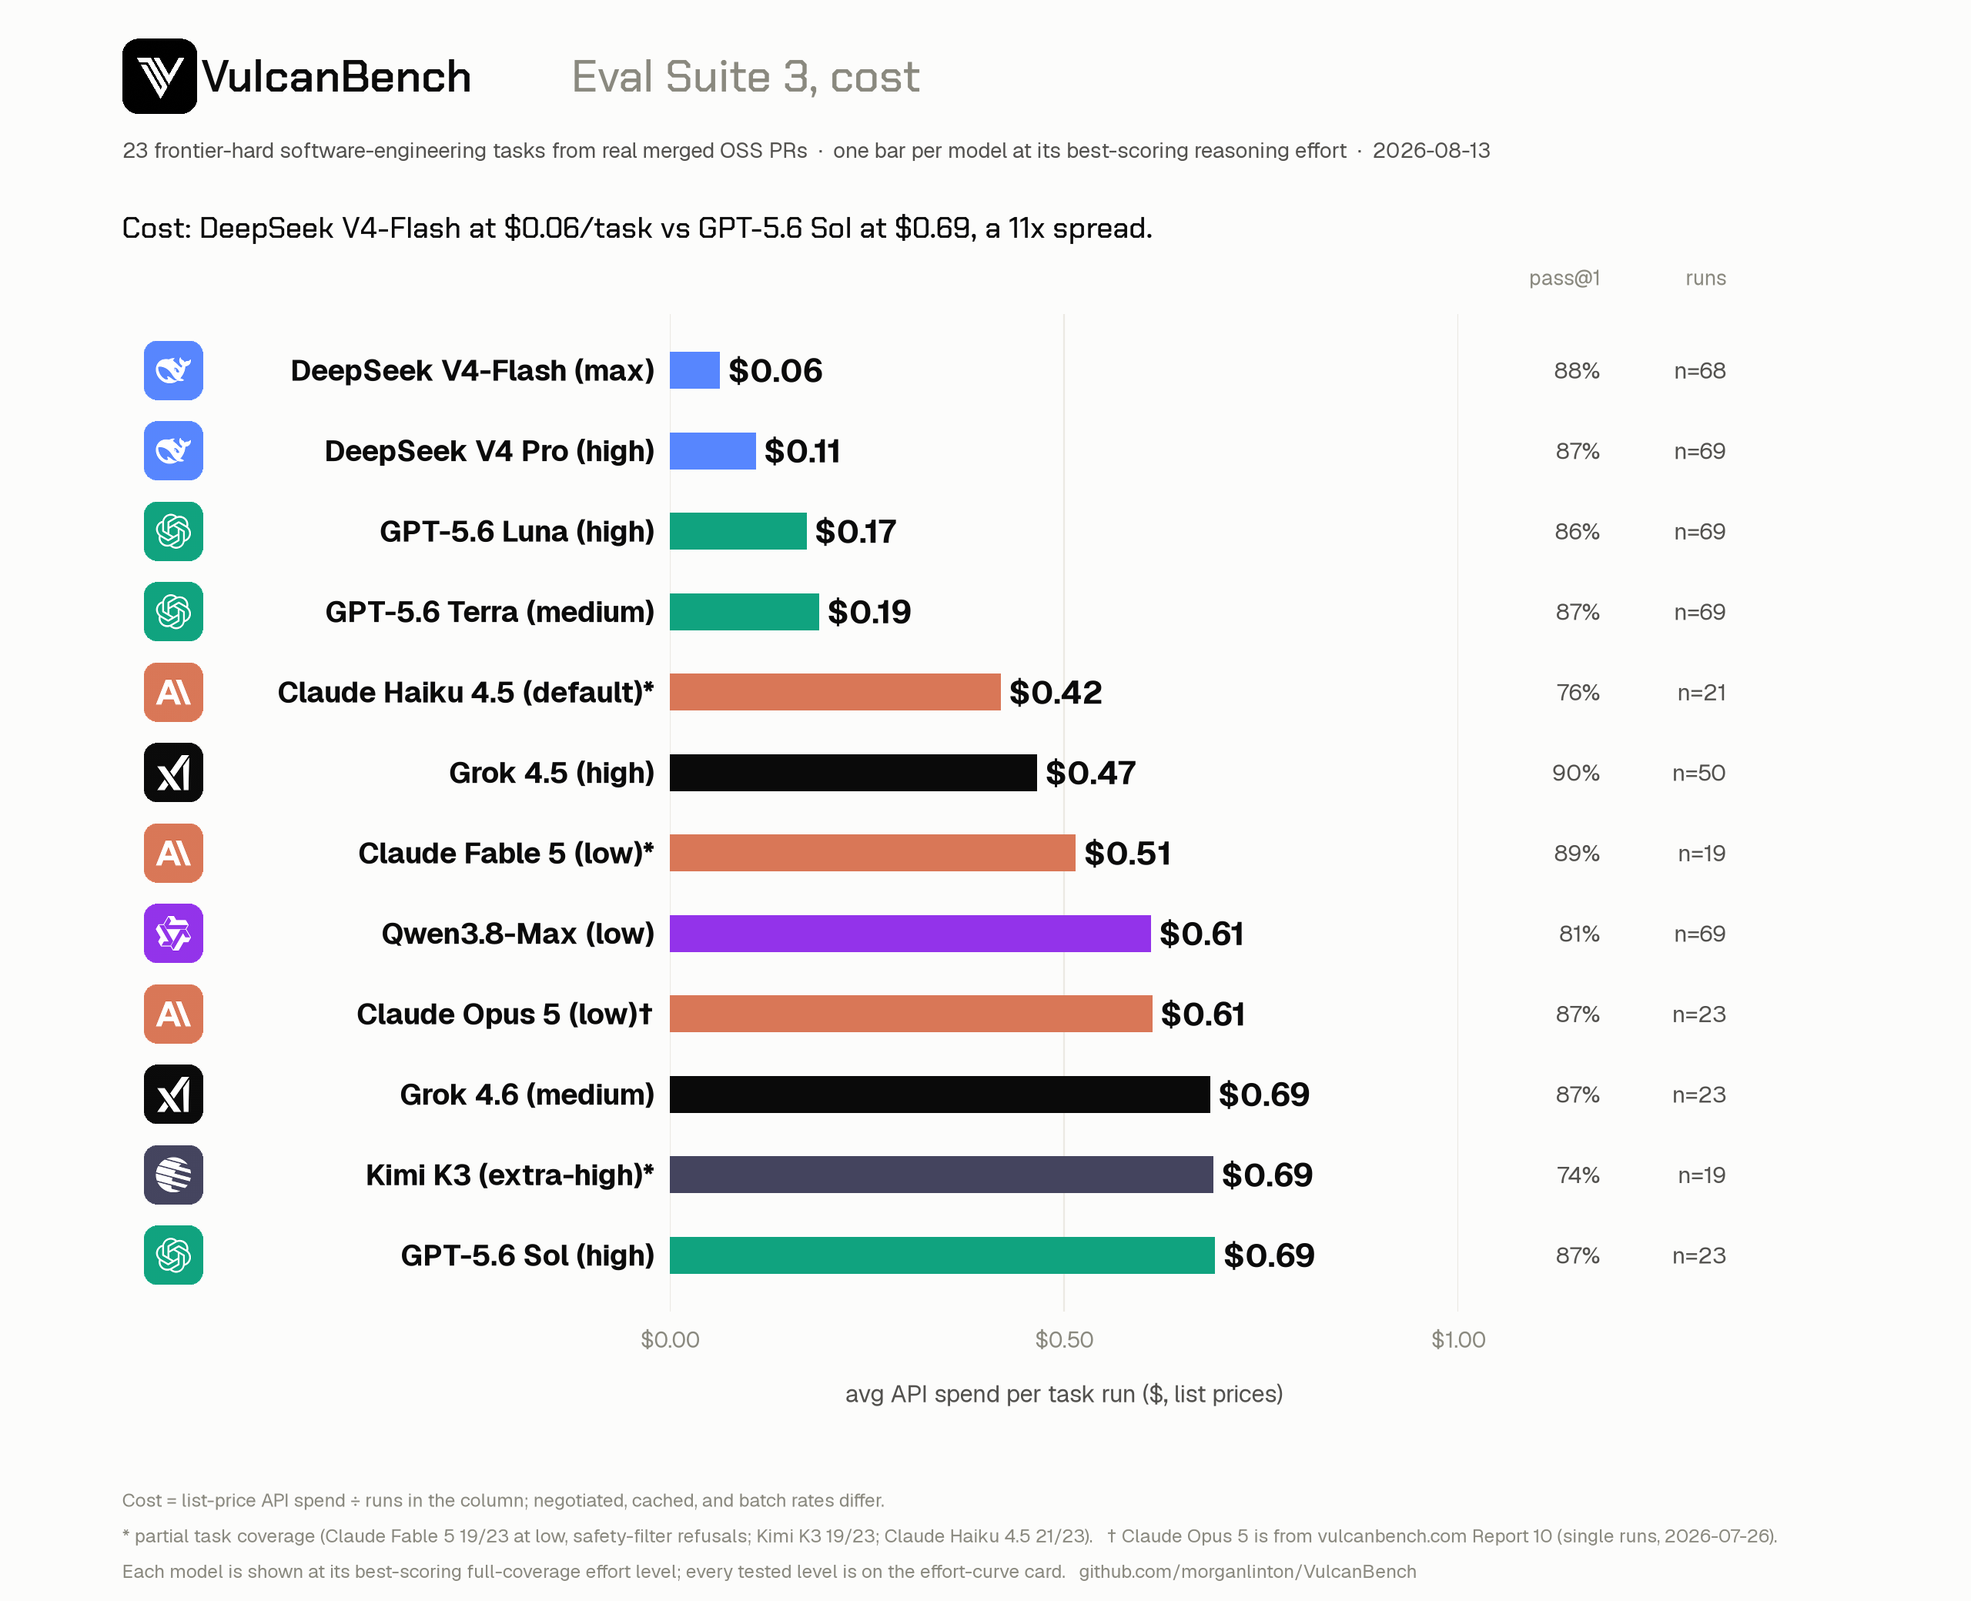
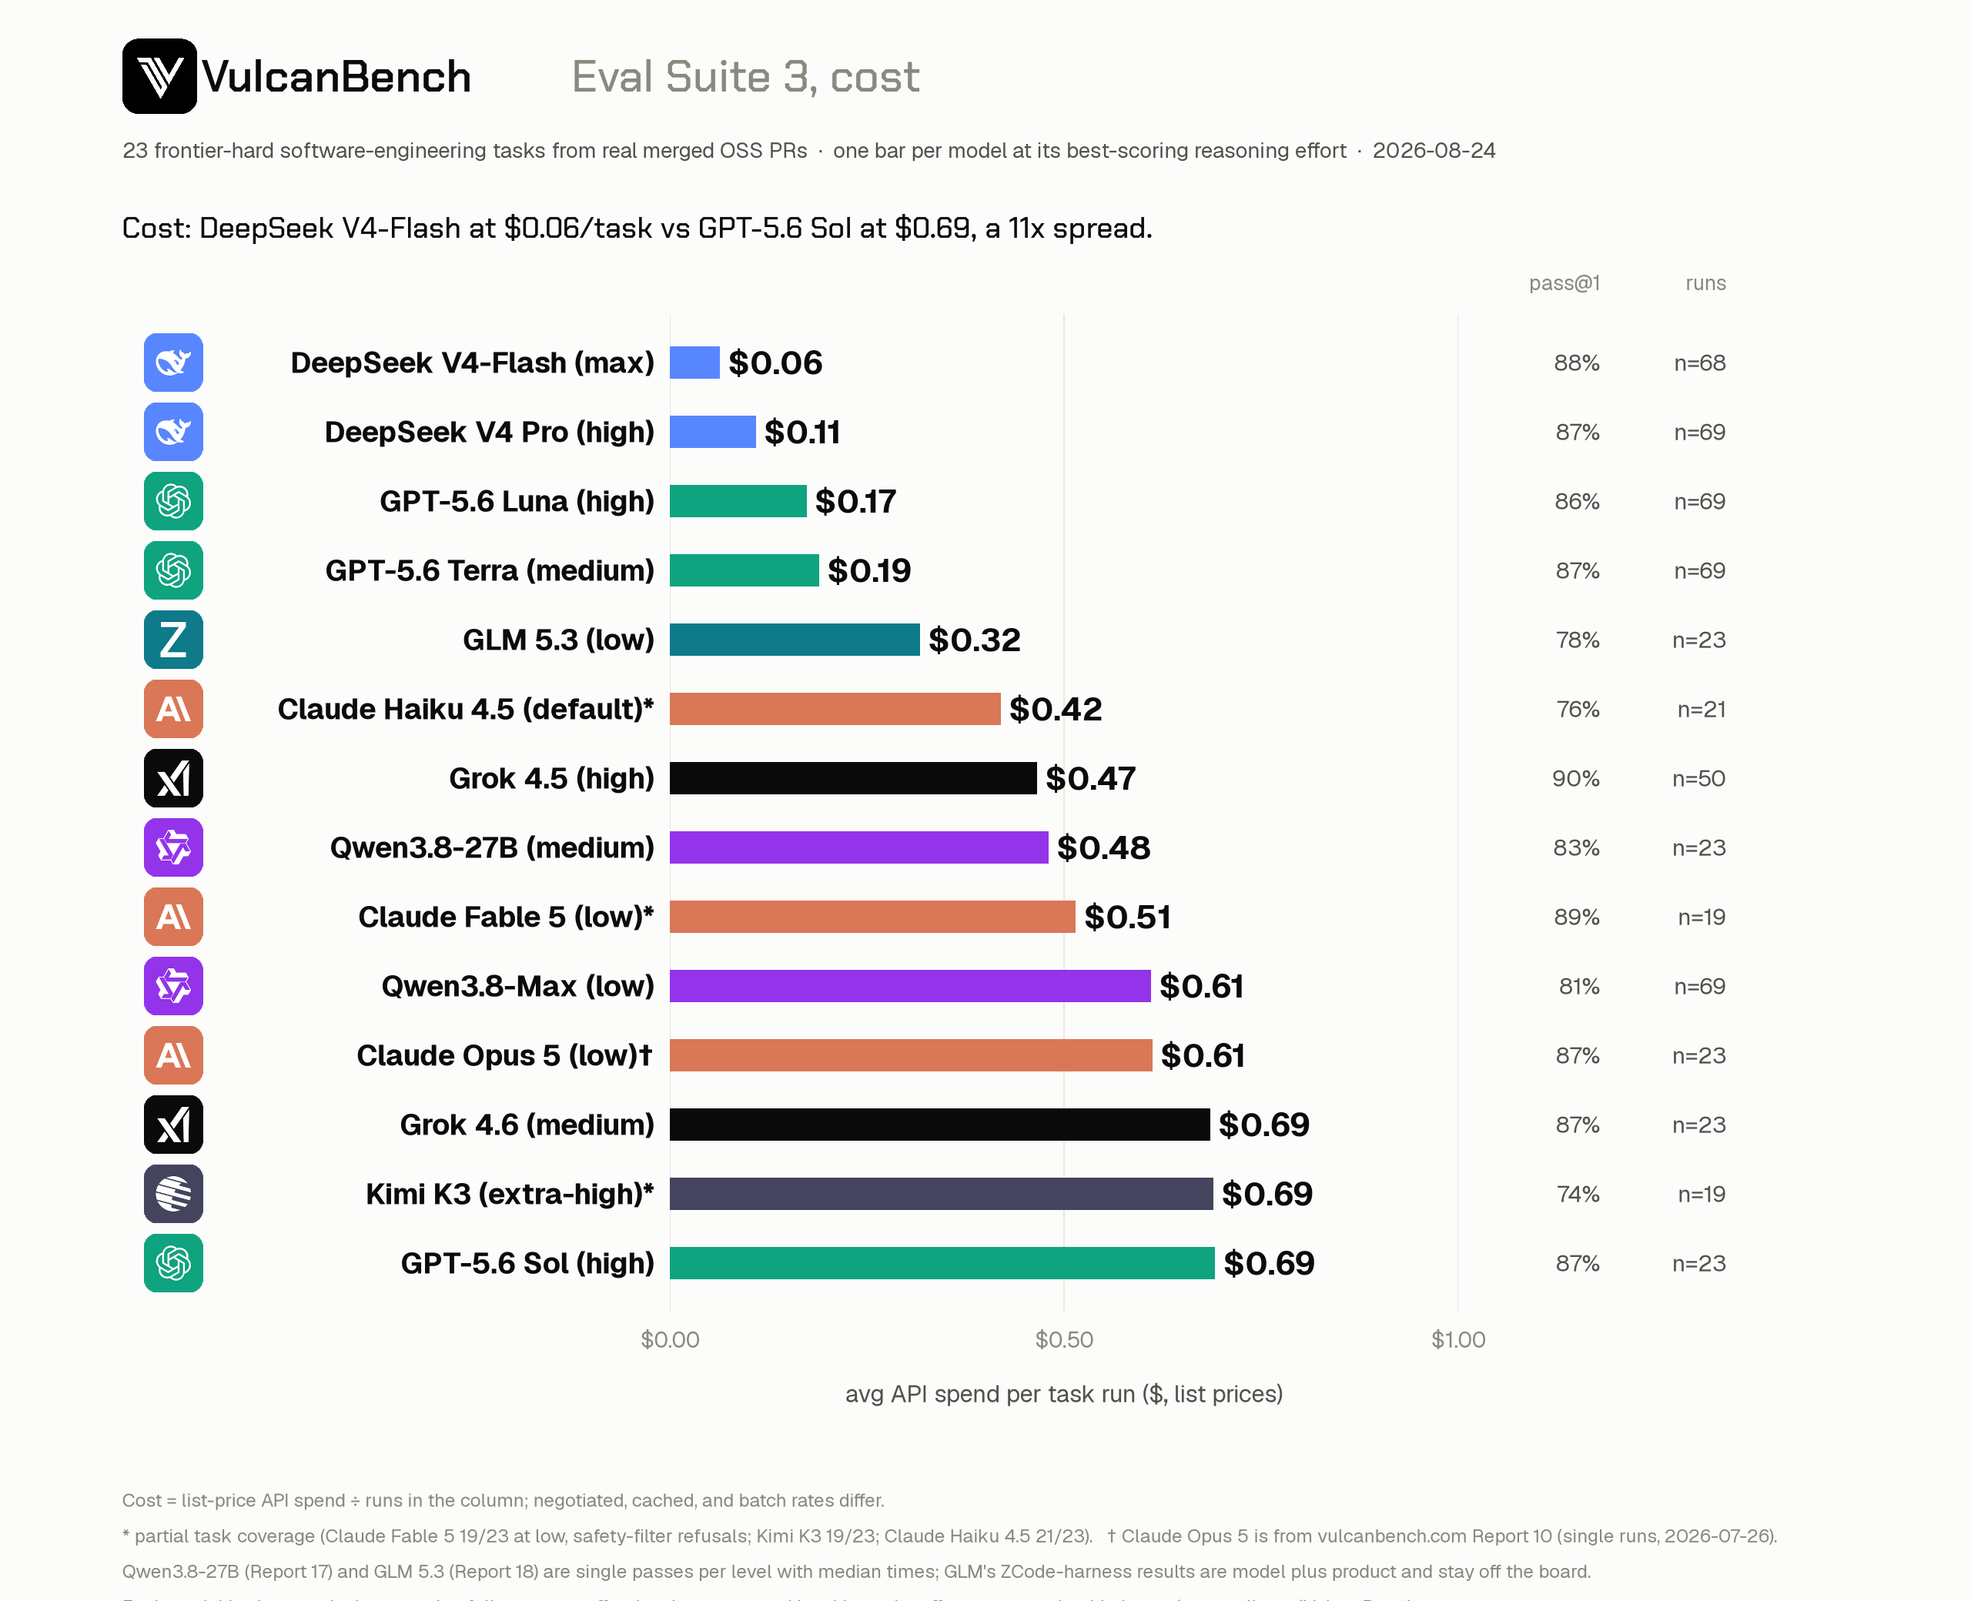
rankings pipeline: GLM 5.3 joins the board; re-render all cards
- GLM 5.3 (Z.ai, deep teal #0e7a8a, new logo silhouette) joins NAME, ladders
  (low/high/max with extra-high displayed as "max"), and the repeat
  aggregation; its durations publish as medians per Report 18. zcode: and
  ollama: runs are excluded from the board (subscription harness = model
  plus product; local-inference controls).
- Qwen3.8-27B rows are hardcoded from Report 17 / the deployed board (the
  Opus 5 precedent): the local runs dir holds extra non-column sweeps
  (68/37/22 per effort), so the published column values are authoritative.
- v3_rankings.json is updated surgically on top of the deployed baseline: a
  from-scratch rebuild currently mis-aggregates pre-existing repeat models
  because task files have evolved since those runs (task_hash filter trims
  e.g. V4-Flash to 17 tasks), documented here rather than papered over.
- Effort-curve card grid goes to 6 columns (11 swept models), dates bump to
  2026-08-24, footnotes gain the GLM/27B single-pass + median-times notes,
  and every card re-renders with 14 models / 39 columns.

diff --git a/scripts/rankings-chart/update_rankings.py b/scripts/rankings-chart/update_rankings.py
@@ -9,6 +9,7 @@ sqrt(n_tasks). The mislabeled "medium" run (API-coerced to high) is excluded.
 import glob
 import json
 import math
+import statistics
 from pathlib import Path
 
 from harness.leaderboard import current_task_hashes
@@ -21,6 +22,7 @@ CURRENT_V3_HASHES = current_task_hashes(Path(REPO) / "tasks" / "v3")
 # (per-task mean pass@1) instead of a single suite.json.
 REPEAT_MODELS = {
     "deepseek:deepseek-v4-flash",
+    "zai:glm-5.3",
     "deepseek:deepseek-v4-pro",
     "openai:grok-4.5",
     "openai:gpt-5.6-luna",
@@ -37,11 +39,14 @@ for p in glob.glob(f"{REPO}/runs*/suite-*/suite.json"):
         continue
     if s.get("suite") != "v3" or not s.get("aggregate") or s["model"] in REPEAT_MODELS:
         continue
-    key = (s["model"], s.get("effort") or "—")
+    if s["model"].startswith(("zcode:", "ollama:")):
+        # Subscription-harness and local-inference suites never join the board.
+        continue
+    key = (s["model"], s.get("effort") or "")
     a = s["aggregate"][0]
     cand = dict(
         model=s["model"],
-        effort=s.get("effort") or "—",
+        effort=s.get("effort") or "",
         n_tasks=a["n_tasks"],
         n_runs=a["n_runs"],
         pass1=a["pass_at_1"],
@@ -67,8 +72,8 @@ for p in repeat_summary_paths:
     task_id = str(s.get("task_id", ""))
     if s.get("task_hash") != CURRENT_V3_HASHES.get(task_id):
         continue
-    eff = (s.get("effort") or {}).get("requested", "—")
-    # DeepSeek "medium" = duplicate high run (API coercion) — excluded.
+    eff = (s.get("effort") or {}).get("requested", "")
+    # DeepSeek "medium" = duplicate high run (API coercion), excluded.
     if model.startswith("deepseek") and eff == "medium":
         continue
     agg.setdefault((model, eff), {}).setdefault(task_id, []).append(s)
@@ -79,12 +84,14 @@ for (model, eff), tasks in agg.items():
     n_runs = 0
     tot = 0.0
     dur = 0.0
+    all_durs: list[float] = []
     for runs in tasks.values():
         wins = sum(1 for r in runs if r["scores"].get("functional") == 1.0)
         per_task.append(wins / len(runs))
         cost += sum(r.get("cost_usd") or 0 for r in runs)
         tot += sum(r["scores"].get("total") or 0 for r in runs)
         dur += sum(r.get("duration_s") or 0 for r in runs)
+        all_durs.extend(r.get("duration_s") or 0 for r in runs)
         n_runs += len(runs)
     n = len(per_task)
     p1 = sum(per_task) / n
@@ -98,11 +105,18 @@ for (model, eff), tasks in agg.items():
         se=round(math.sqrt(var / n), 4),
         avg_total=round(tot / n_runs, 4),
         cost=round(cost, 4),
-        avg_duration_s=round(dur / n_runs, 1),
+        # Single-pass columns joined via Reports 17/18 publish MEDIAN times
+        # (long-tail timeouts distort a 23-run mean); keep the board consistent.
+        avg_duration_s=round(
+            statistics.median(all_durs)
+            if model == "zai:glm-5.3"
+            else dur / n_runs,
+            1,
+        ),
         fin="",
     )
 
-# Claude Opus 5 on v3 — from vulcanbench.com Report 10 (2026-07-26, single
+# Claude Opus 5 on v3, from vulcanbench.com Report 10 (2026-07-26, single
 # runs; raw run dirs not in this checkout). se = sqrt(p(1-p)/(n-1)) to match
 # the harness's single-run pass_at_1_stderr.
 for eff, p1, cost, dur_s in (
@@ -123,12 +137,33 @@ for eff, p1, cost, dur_s in (
         fin="2026-07-26",
     )
 
+# Qwen3.8-27B on v3, from Report 17 / the deployed board. The local runs dir
+# holds extra non-column sweeps (68/37/22 runs per effort), so the published
+# column values are authoritative here; times are medians per that report.
+for eff, p1, n_runs, cost_run, med_min in (
+    ("low", 0.768, 69, 0.71, 7.1),
+    ("medium", 0.826, 23, 0.48, 6.8),
+    ("extra-high", 0.739, 23, 0.69, 17.1),
+):
+    best[("qwen:qwen3.8-27b", eff)] = dict(
+        model="qwen:qwen3.8-27b",
+        effort=eff,
+        n_tasks=23,
+        n_runs=n_runs,
+        pass1=p1,
+        se=0.081 if eff == "medium" else round(math.sqrt(p1 * (1 - p1) / 22), 4),
+        avg_total=None,
+        cost=round(cost_run * n_runs, 4),
+        avg_duration_s=round(med_min * 60.0, 1),
+        fin="2026-08-21",
+    )
+
 rows = sorted(best.values(), key=lambda r: -r["pass1"])
 for r in rows:
     se = f"±{r['se']:.3f}" if r.get("se") is not None else ""
     print(
         f"{r['model']:32} {r['effort']:10} pass@1={r['pass1']:.4f}{se} "
-        f"runs={r['n_runs']}/{r['n_tasks']}t cost=${r['cost']:.2f}"
+        f"runs={r['n_runs']}/{r['n_tasks']}t cost=${(r['cost'] or 0):.2f}"
     )
 with open(HERE / "v3_rankings.json", "w") as f:
     json.dump(rows, f, indent=1)

diff --git a/scripts/rankings-chart/make_chart.py b/scripts/rankings-chart/make_chart.py
@@ -49,6 +49,8 @@ LAB_COLOR = {
     # Qwen's official violet (#6950EF) sits ΔE 12 from DeepSeek's blue, below
     # the readability floor, so this deepened violet stands in for it.
     "Alibaba": "#9333EA",
+    # Z.ai: deep teal, dE > 15 from every neighbour; all marks stay labelled.
+    "Z.ai": "#0e7a8a",
 }
 
 NAME = {
@@ -65,6 +67,8 @@ NAME = {
     "deepseek:deepseek-v4-pro": ("DeepSeek V4 Pro", "DeepSeek"),
     "kimi:kimi-k3": ("Kimi K3", "Moonshot"),
     "qwen:qwen3.8-max": ("Qwen3.8-Max", "Alibaba"),
+    "qwen:qwen3.8-27b": ("Qwen3.8-27B", "Alibaba"),
+    "zai:glm-5.3": ("GLM 5.3", "Z.ai"),
 }
 
 
@@ -83,7 +87,7 @@ def eff_display(model: str, eff: str) -> str:
     if eff in ("", "\u2014", "-"):  # stored as a dash when no effort was set
         return "default"
     if eff == "extra-high":
-        if model.startswith("deepseek:"):
+        if model.startswith(("deepseek:", "zai:")):
             return "max"
         if model.startswith(("qwen:", "xai:")):
             return "xhigh"
@@ -95,7 +99,12 @@ with open(HERE / "v3_rankings.json") as f:
 # Deliberate exclusions, not silent drops: Opus 4.8 has 5/23 task coverage;
 # Muse Spark's OpenRouter-routed sweep (minimal full, low capped at 33/69,
 # medium 3 runs) is pending its own via-OpenRouter column treatment.
-EXCLUDED_MODELS = {"anthropic:claude-opus-4-8", "meta:muse-spark-1.2"}
+EXCLUDED_MODELS = {
+    "anthropic:claude-opus-4-8",
+    "meta:muse-spark-1.2",
+    "zcode:glm-5.3",  # subscription harness: model plus product, off the board
+    "ollama:qwen3.8:27b",  # local-inference control runs
+}
 rows = [r for r in rows if r["model"] not in EXCLUDED_MODELS]
 unknown = {r["model"] for r in rows} - set(NAME)
 if unknown:
@@ -106,6 +115,8 @@ def model_efforts(model: str) -> list[str]:
         return ["low", "high", "extra-high"]  # DeepSeek: low/high/max
     if model.startswith("qwen:"):
         return ["low", "medium", "extra-high"]  # Qwen: low/medium/xhigh
+    if model.startswith("zai:"):
+        return ["low", "high", "extra-high"]  # GLM 5.3: low/high/max
     if model.startswith("xai:"):
         # Grok 4.6+: low/medium/high/xhigh, four real levels; dropping xhigh
         # would hide the curve's shape (medium peak, high trough, xhigh partial
@@ -312,7 +323,7 @@ fig.text(
     0.9424,
     "23 frontier-hard software-engineering tasks from real merged OSS PRs  ·  "
     "pass@1 at each model's best-scoring reasoning effort  ·  Docker-sandboxed agent runs  ·  "
-    "2026-08-13",
+    "2026-08-24",
     fontsize=11.5,
     color=INK2,
     family=SANS,
@@ -626,7 +637,10 @@ fig.text(
     "Five Qwen xhigh runs on 3 tasks were lost to 600s API read timeouts and "
     "are excluded rather than scored 0. "
     "Grok 4.6 columns are a single pass (repeat 1, 2026-08-12) on xAI's API; its "
-    "effort scale is low/medium/high/xhigh and its unset-effort default is high.\n"
+    "effort scale is low/medium/high/xhigh and its unset-effort default is high. "
+    "Qwen3.8-27B (Report 17) and GLM 5.3 (Report 18) are single passes per level with "
+    "median times; GLM's scale is low/high/max, its unset default is max, and its "
+    "ZCode-harness results (model plus product) are excluded from the board.\n"
     "Bar panels show one column per model at its best-scoring effort (ties to the cheaper run); every effort "
     "level is plotted in the effort-curve cards.\n"
     "Whiskers are ±1 stderr, single-pass columns (n=23 runs or fewer) carry wider "

diff --git a/scripts/rankings-chart/make_efforts.py b/scripts/rankings-chart/make_efforts.py
@@ -1,4 +1,4 @@
-"""VulcanBench suite v3 — effort-curve small multiples, 16:9.
+"""VulcanBench suite v3, effort-curve small multiples, 16:9.
 
 The one thing the leaderboard and frontier cards cannot show: what happens
 inside a model when you turn its reasoning effort up. Every panel shares one
@@ -80,7 +80,7 @@ fig.text(L + 0.040, 0.947, "VulcanBench", fontsize=26, color=INK, family=BRAND, 
 fig.text(
     L + 0.228,
     0.947,
-    "Eval Suite 3 — effort curves",
+    "Eval Suite 3, effort curves",
     fontsize=26,
     color=MUTED,
     family=BRAND_MED,
@@ -90,7 +90,7 @@ fig.text(
     L,
     0.888,
     "23 frontier-hard software-engineering tasks from real merged OSS PRs  ·  "
-    "pass@1 vs. each provider's own reasoning-effort ladder  ·  2026-08-13",
+    "pass@1 vs. each provider's own reasoning-effort ladder  ·  2026-08-24",
     fontsize=11.5,
     color=INK2,
     family=SANS,
@@ -98,7 +98,7 @@ fig.text(
 fig.text(
     L,
     0.830,
-    f"More reasoning is not reliably better — only {n_rises} of {len(order)} models improve all "
+    f"More reasoning is not reliably better, only {n_rises} of {len(order)} models improve all "
     "the way up.",
     fontsize=15,
     color=INK,
@@ -108,7 +108,7 @@ fig.text(
     L,
     0.792,
     "Panels share one y-scale, so the shapes compare directly. Each x-axis is that provider's "
-    "documented enum, not a common scale — the same word means different compute at different labs.",
+    "documented enum, not a common scale, the same word means different compute at different labs.",
     fontsize=11.5,
     color=INK2,
     family=SANS,
@@ -116,7 +116,7 @@ fig.text(
 
 # ---------------- Cards ----------------
 Y0, Y1 = 50, 96
-COLS, GUT_X, GUT_Y = 5, 0.0165, 0.105
+COLS, GUT_X, GUT_Y = 6, 0.0145, 0.105
 CARD_W = (0.938 - L - (COLS - 1) * GUT_X) / COLS
 CARD_H = 0.205
 TOP = 0.509  # bottom edge of the top row; each card's two-line header sits above it
@@ -276,8 +276,8 @@ fig.text(
     "Larger point = that model's best level. Whiskers are ±1 stderr; most within-model "
     "differences here are inside them, so read the shape, not single-point gaps.\n"
     "Effort names are each provider's own: DeepSeek is low/high/max, Qwen low/medium/xhigh "
-    "(no 'high'), Grok 4.6 adds xhigh above high. Unset-effort defaults differ too — Grok "
-    "defaults to high, Qwen to xhigh.\n"
+    "(no 'high'), Grok 4.6 adds xhigh above high, GLM 5.3 is low/high/max. Unset-effort "
+    "defaults differ too, Grok defaults to high, Qwen to xhigh, GLM 5.3 to max.\n"
     f"* partial task coverage at one or more levels ({', '.join(sorted(partial_models))}).   "
     "† Claude Opus 5 is from vulcanbench.com Report 10 (single runs, 2026-07-26), not run in "
     "this checkout.   github.com/morganlinton/VulcanBench",

diff --git a/scripts/rankings-chart/_common.py b/scripts/rankings-chart/_common.py
@@ -45,6 +45,9 @@ LAB_COLOR = {
     "Moonshot": "#44445E",
     "DeepSeek": "#5786FE",
     "Alibaba": "#9333EA",
+    # Z.ai has no official hex in our set; deep teal clears every neighbour
+    # by dE > 15 and, like the rest, every mark stays directly labelled.
+    "Z.ai": "#0e7a8a",
 }
 
 NAME = {
@@ -60,11 +63,15 @@ NAME = {
     "deepseek:deepseek-v4-pro": ("DeepSeek V4 Pro", "DeepSeek"),
     "kimi:kimi-k3": ("Kimi K3", "Moonshot"),
     "qwen:qwen3.8-max": ("Qwen3.8-Max", "Alibaba"),
+    "qwen:qwen3.8-27b": ("Qwen3.8-27B", "Alibaba"),
+    "zai:glm-5.3": ("GLM 5.3", "Z.ai"),
 }
 
 EXCLUDED = {
     "anthropic:claude-opus-4-8",  # 5/23 task coverage
     "meta:muse-spark-1.2",  # OpenRouter-routed; needs its own column treatment
+    "zcode:glm-5.3",  # subscription harness: model plus product, never a board column
+    "ollama:qwen3.8:27b",  # local-inference control runs, not the DashScope column
 }
 # Externally sourced (vulcanbench.com Report 10), not run in this checkout.
 EXTERNAL = {"anthropic:claude-opus-5"}
@@ -76,7 +83,7 @@ def eff_display(model: str, eff: str) -> str:
     if eff in ("", "\u2014", "-"):  # stored as a dash when no effort was set
         return "default"
     if eff == "extra-high":
-        if model.startswith("deepseek:"):
+        if model.startswith(("deepseek:", "zai:")):
             return "max"
         if model.startswith(("qwen:", "xai:")):
             return "xhigh"
@@ -93,6 +100,8 @@ def model_efforts(model: str) -> list[str]:
         return ["low", "high", "extra-high"]  # DeepSeek: low/high/max
     if model.startswith("qwen:"):
         return ["low", "medium", "extra-high"]  # Qwen: low/medium/xhigh
+    if model.startswith("zai:"):
+        return ["low", "high", "extra-high"]  # GLM 5.3: low/high/max
     if model.startswith("xai:"):
         return ["low", "medium", "high", "extra-high"]  # Grok 4.6+: adds xhigh
     return ["low", "medium", "high"]

diff --git a/scripts/rankings-chart/make_cards.py b/scripts/rankings-chart/make_cards.py
@@ -37,7 +37,7 @@ from PIL import Image, ImageDraw
 
 register_fonts()
 
-DATE = "2026-08-13"
+DATE = "2026-08-24"
 SUBTITLE = (
     "23 frontier-hard software-engineering tasks from real merged OSS PRs  ·  "
     "one bar per model at its best-scoring reasoning effort  ·  " + DATE
@@ -203,6 +203,8 @@ COMMON_NOTE = (
     "* partial task coverage (Claude Fable 5 19/23 at low, safety-filter refusals; Kimi K3 19/23; "
     "Claude Haiku 4.5 21/23).   † Claude Opus 5 is from vulcanbench.com Report 10 (single runs, "
     "2026-07-26).\n"
+    "Qwen3.8-27B (Report 17) and GLM 5.3 (Report 18) are single passes per level with median "
+    "times; GLM's ZCode-harness results are model plus product and stay off the board.\n"
     "Each model is shown at its best-scoring full-coverage effort level; every tested level is "
     "on the effort-curve card.   "
     "github.com/morganlinton/VulcanBench"
